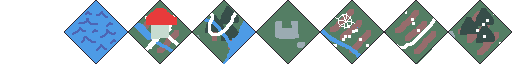
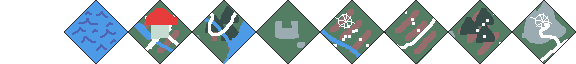
v0.4.267

diff --git a/bleed-server/bin/engine.dart b/bleed-server/bin/engine.dart
@@ -5,6 +5,7 @@ import 'common/library.dart';
 import 'constants/frames_per_second.dart';
 import 'dark_age/areas/area-farm-a.dart';
 import 'dark_age/areas/area-farm-b.dart';
+import 'dark_age/areas/area-mountain-shrine.dart';
 import 'dark_age/areas/area_tavern_cellar.dart';
 import 'dark_age/areas/dark_age_area.dart';
 import 'dark_age/areas/game_dark_age_dark_fortress.dart';
@@ -44,6 +45,7 @@ class Engine {
     final mapRow2 = <DarkAgeArea>[
       GameDarkAgeVillage(),
       AreaFarmA(),
+      AreaMountainShrine(),
     ];
     final mapRow3 = <DarkAgeArea>[
       GameDarkAgeForest(),

diff --git a/bleed-server/bin/dark_age/dark_age_scenes.dart b/bleed-server/bin/dark_age/dark_age_scenes.dart
@@ -15,6 +15,7 @@ class DarkAgeScenes {
   late Scene tavernCellar;
   late Scene farmA;
   late Scene farmB;
+  late Scene mountainShrine;
 
   Future load() async {
       print('Loading dark age scenes');
@@ -27,6 +28,7 @@ class DarkAgeScenes {
       darkFortress = await loadScene('dark-fortress');
       darkFortressDungeon = await loadScene('dark-fortress-dungeon');
       tavernCellar = await loadScene('tavern-cellar');
+      mountainShrine = await loadScene('mountain-shrine');
       print("Loading dark age scenes finished");
   }
 }

diff --git a/bleed-server/bin/dark_age/areas/area-mountain-shrine.dart b/bleed-server/bin/dark_age/areas/area-mountain-shrine.dart
@@ -1,0 +1,9 @@
+
+
+import '../../common/map_tiles.dart';
+import '../dark_age_scenes.dart';
+import 'dark_age_area.dart';
+
+class AreaMountainShrine extends DarkAgeArea {
+  AreaMountainShrine() : super(darkAgeScenes.mountainShrine, mapTile: MapTiles.Mountain_Shrine);
+}

diff --git a/gamestream_flutter/lib/isometric/ui/dialogs/build_game_dialog_map.dart b/gamestream_flutter/lib/isometric/ui/dialogs/build_game_dialog_map.dart
@@ -72,6 +72,7 @@ final mapTiles = <MapTile>[
    MapTile(-1, 0, MapTiles.Farm),
    MapTile(0, 1, MapTiles.FarmA),
    MapTile(-1, 1, MapTiles.FarmB),
+   MapTile(-1, 2, MapTiles.Mountain_Shrine),
    // MapTile(0, -1, MapTiles.Dark_Castle),
 ];
 

diff --git a/bleed-common/lib/map_tiles.dart b/bleed-common/lib/map_tiles.dart
@@ -7,4 +7,5 @@ class MapTiles {
   static const Farm = 5;
   static const FarmA = 6;
   static const FarmB = 7;
+  static const Mountain_Shrine = 8;
 }

diff --git a/bleed-server/bin/common/map_tiles.dart b/bleed-server/bin/common/map_tiles.dart
@@ -7,4 +7,5 @@ class MapTiles {
   static const Farm = 5;
   static const FarmA = 6;
   static const FarmB = 7;
+  static const Mountain_Shrine = 8;
 }

diff --git a/bleed-common/lib/version.dart b/bleed-common/lib/version.dart
@@ -1,4 +1,4 @@
-const version = 'v0.4.266';
+const version = 'v0.4.267';
 
 
 

diff --git a/bleed-server/bin/common/version.dart b/bleed-server/bin/common/version.dart
@@ -1,4 +1,4 @@
-const version = 'v0.4.266';
+const version = 'v0.4.267';
 
 
 
